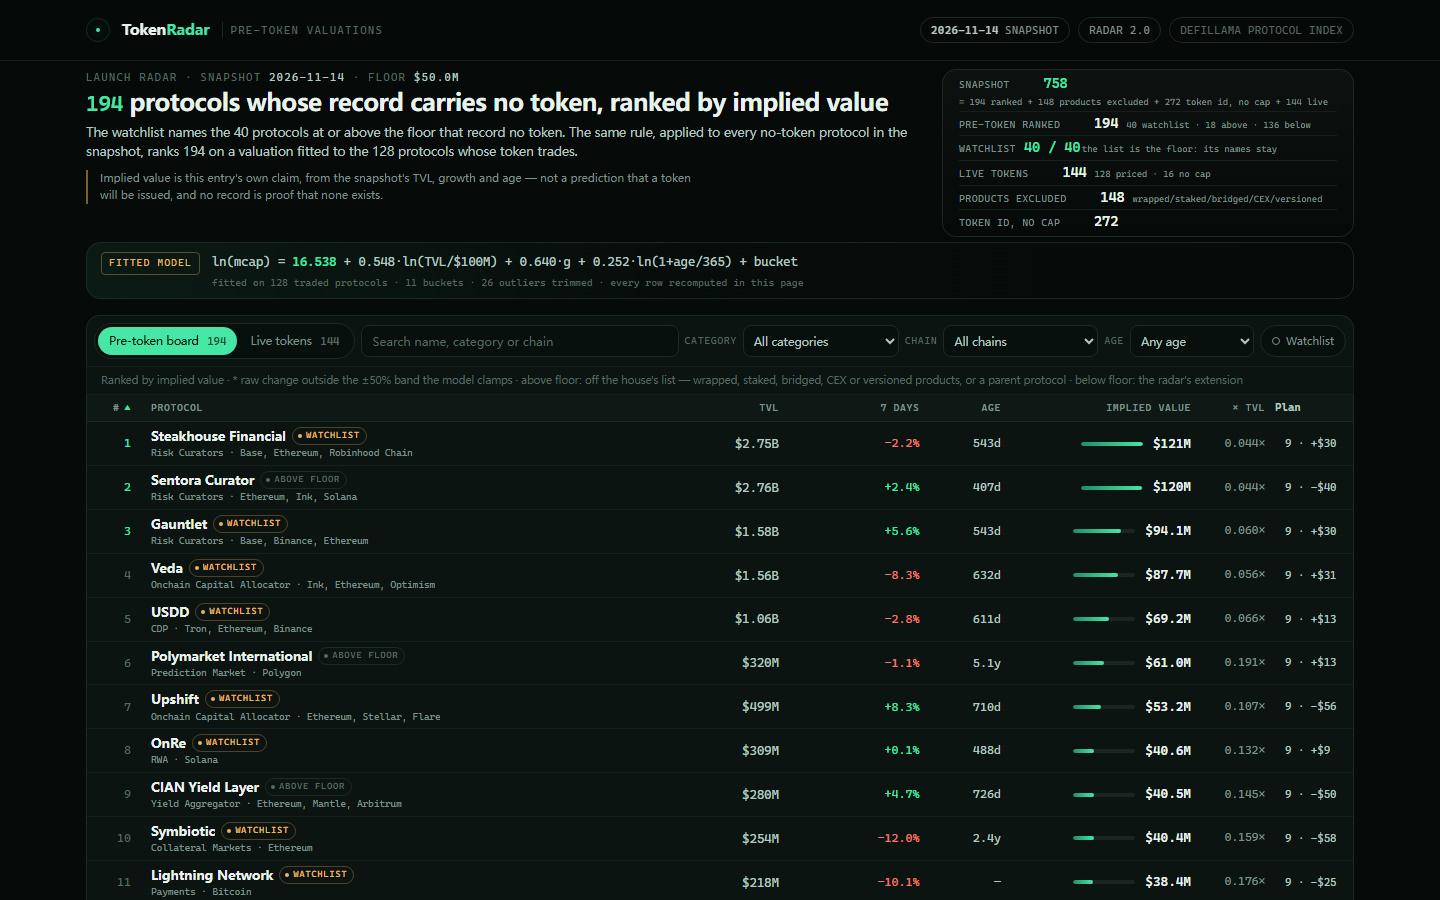
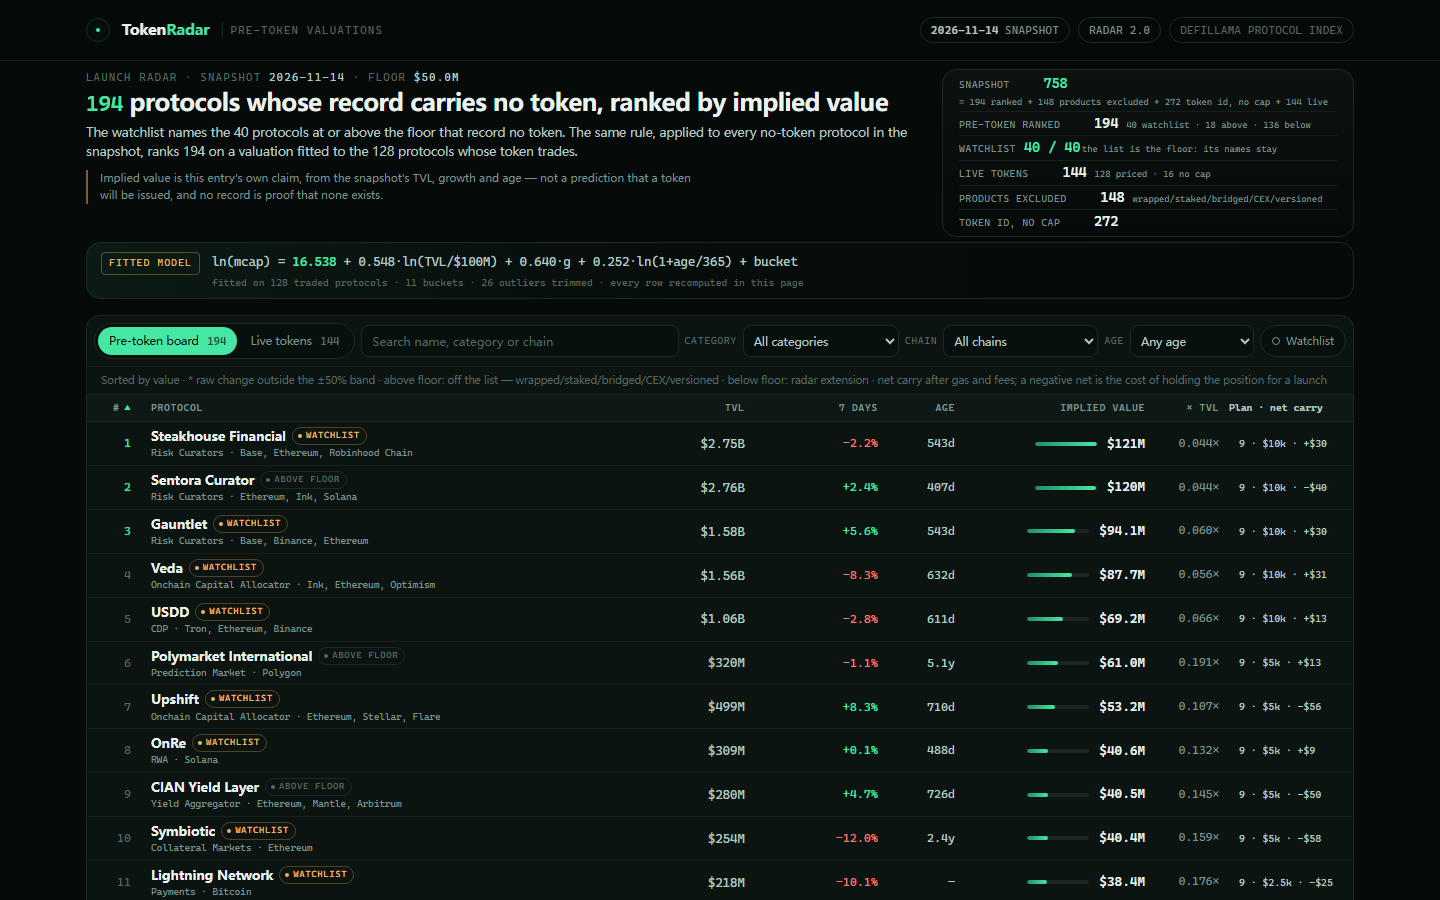
entry: v10 — the keyed Plan tag, unified precision, the live-tab screenshot

diff --git a/dashboard/app.js b/dashboard/app.js
@@ -130,7 +130,7 @@
     document.getElementById('hero-floor').textContent = shortUsd(D.floor_usd);
     document.getElementById('hero-count').textContent = D.board_size;
     document.getElementById('facts').textContent = M.facts;
-    document.getElementById('legend').textContent = 'Ranked by implied value · * raw change outside the ±' + M.growth_clip_pct + '% band the model clamps · above floor: off the house\'s list — wrapped, staked, bridged, CEX or versioned products, or a parent protocol · below floor: the radar\'s extension';
+    document.getElementById('legend').textContent = 'Sorted by value · * raw change outside the ±' + M.growth_clip_pct + '% band · above floor: off the list — wrapped/staked/bridged/CEX/versioned · below floor: radar extension · net carry after gas and fees; a negative net is the cost of holding the position for a launch';
     document.getElementById('hero-lede').textContent =
       'The watchlist names the ' + D.watchlist_size + ' protocols at or above the floor that record no token. The same rule, applied to every no-token protocol in the snapshot, ranks ' + D.board_size +
       ' on a valuation fitted to the ' + D.model.training.n + ' protocols whose token trades.';
@@ -225,7 +225,7 @@
     { key: 'age', label: 'Age', cls: 'num c-age' },
     { key: 'implied', label: 'Implied value', cls: 'num c-impl' },
     { key: 'mult', label: '× TVL', cls: 'num c-mult' },
-    { key: 'plan', label: 'Plan', cls: 'num c-plan', plain: true }
+    { key: 'plan', label: 'Plan · net carry', cls: 'num c-plan', plain: true }
   ];
   function buildHead() {
     var head = document.getElementById('board-head');

diff --git a/lib/farm.ts b/lib/farm.ts
@@ -200,10 +200,11 @@ function riskFor(input: FarmInput): string {
 export function farmBudget(input: FarmInput, steps: number): { budget: string; tag: string; verdict: string } {
   const n = farmNumbers(input);
   const net = usdWhole(n.net);
+  const capital = n.capital < 1000 ? usd(n.capital) : `$${(n.capital / 1000).toFixed(n.capital % 1000 ? 1 : 0)}k`;
   return {
-    budget: `Tier ${n.tier}/7 · ${usd(Math.round(n.capital))} · gas ${usd(Math.round(n.gasTotal))} · ${n.hold} days · net ${net}`,
-    tag: `${steps} · ${net}`,
-    verdict: `Assumed ${(n.apr * 100).toFixed(1)}% APR: ${usd(Math.round(n.yieldUsd))} yield − ${usd(Math.round(n.gasTotal))} gas − ${usd(Math.round(n.fee))} exit fee = ${net} net carry before any launch or points${n.net < 0 ? ' — the cost of holding the position' : ''}; ${usdWhole(n.perHour)}/hour for ${Math.max(1, Math.round(n.hours))} hours`,
+    budget: `Tier ${n.tier}/7 · ${usd(n.capital)} · gas ≈ ${usd(Math.round(n.gasTotal))} · ${n.hold} days · net ≈ ${net}`,
+    tag: `${steps} · ${capital} · ${net}`,
+    verdict: `Assumed ${(n.apr * 100).toFixed(1)}% APR: ≈ ${net} net carry before any launch or points${n.net < 0 ? ' — the cost of holding the position' : ''}; ≈ ${usdWhole(n.perHour)}/hour for ${Math.max(1, Math.round(n.hours))} hours`,
   };
 }
 

diff --git a/dashboard/app.css b/dashboard/app.css
@@ -133,7 +133,7 @@ tr:hover .p-name .chev { opacity: 1; }
 .impl .bar i { display: block; height: 100%; border-radius: 2px; background: linear-gradient(90deg, var(--mint-deep), var(--mint)); }
 .impl b { font-family: var(--mono); font-weight: 500; font-size: 13px; color: var(--ink); }
 .c-mult { width: 74px; font-size: 11.5px; color: var(--muted); }
-.c-plan { width: 78px; font-size: 11px; color: var(--ink-2); }
+.c-plan { width: 124px; font-size: 10px; color: var(--ink-2); }
 .legend { padding: 5px 14px; border: 1px solid var(--line-2); border-top: 0; background: var(--panel); color: var(--faint); font-size: 10.5px; }
 .ratio { display: inline-block; padding: 2px 7px; border-radius: 999px; border: 1px solid var(--line); font-family: var(--mono); font-size: 10.5px; }
 .ratio.ok { color: var(--mint); border-color: rgba(70, 230, 165, 0.3); background: rgba(70, 230, 165, 0.07); }
